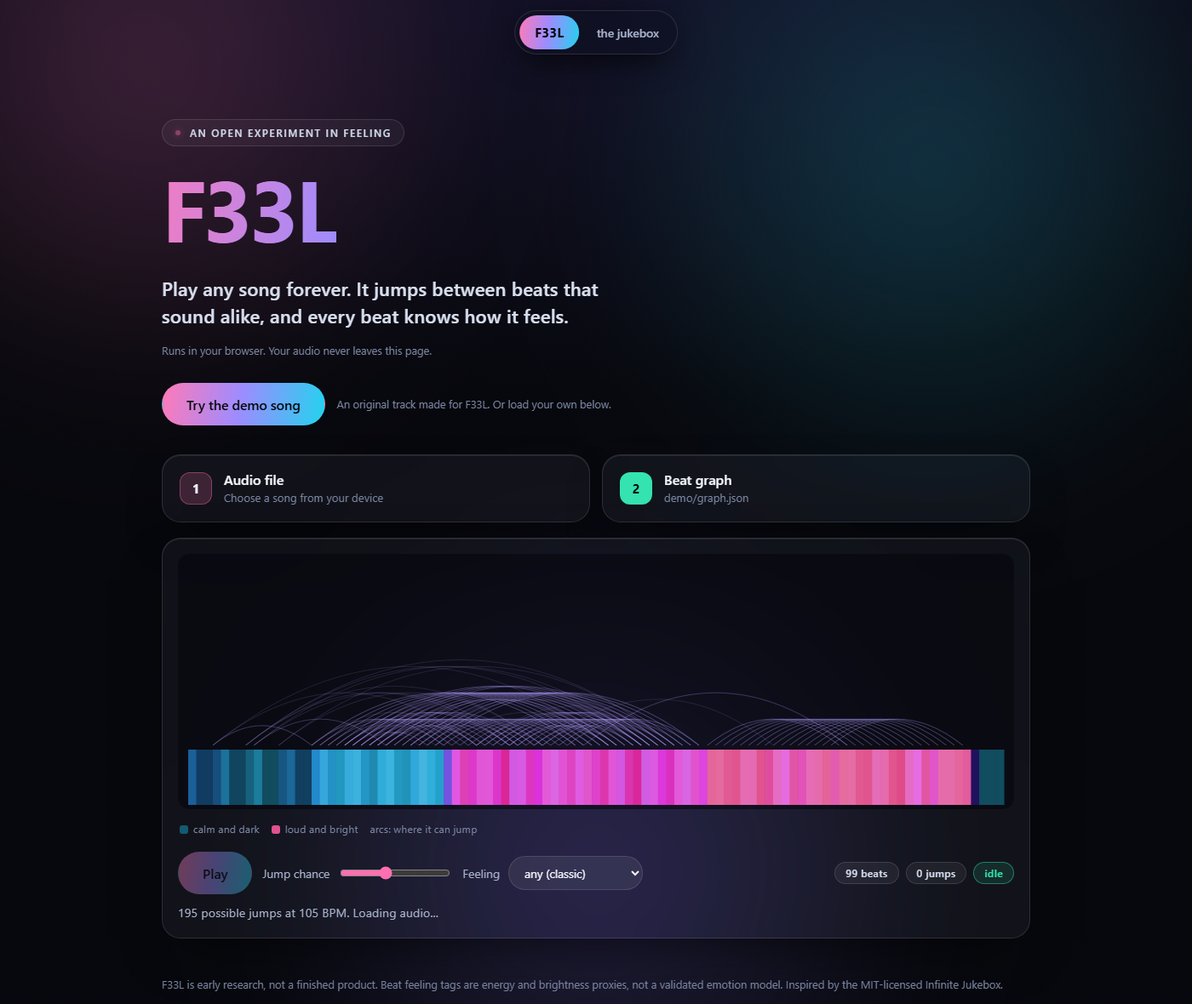
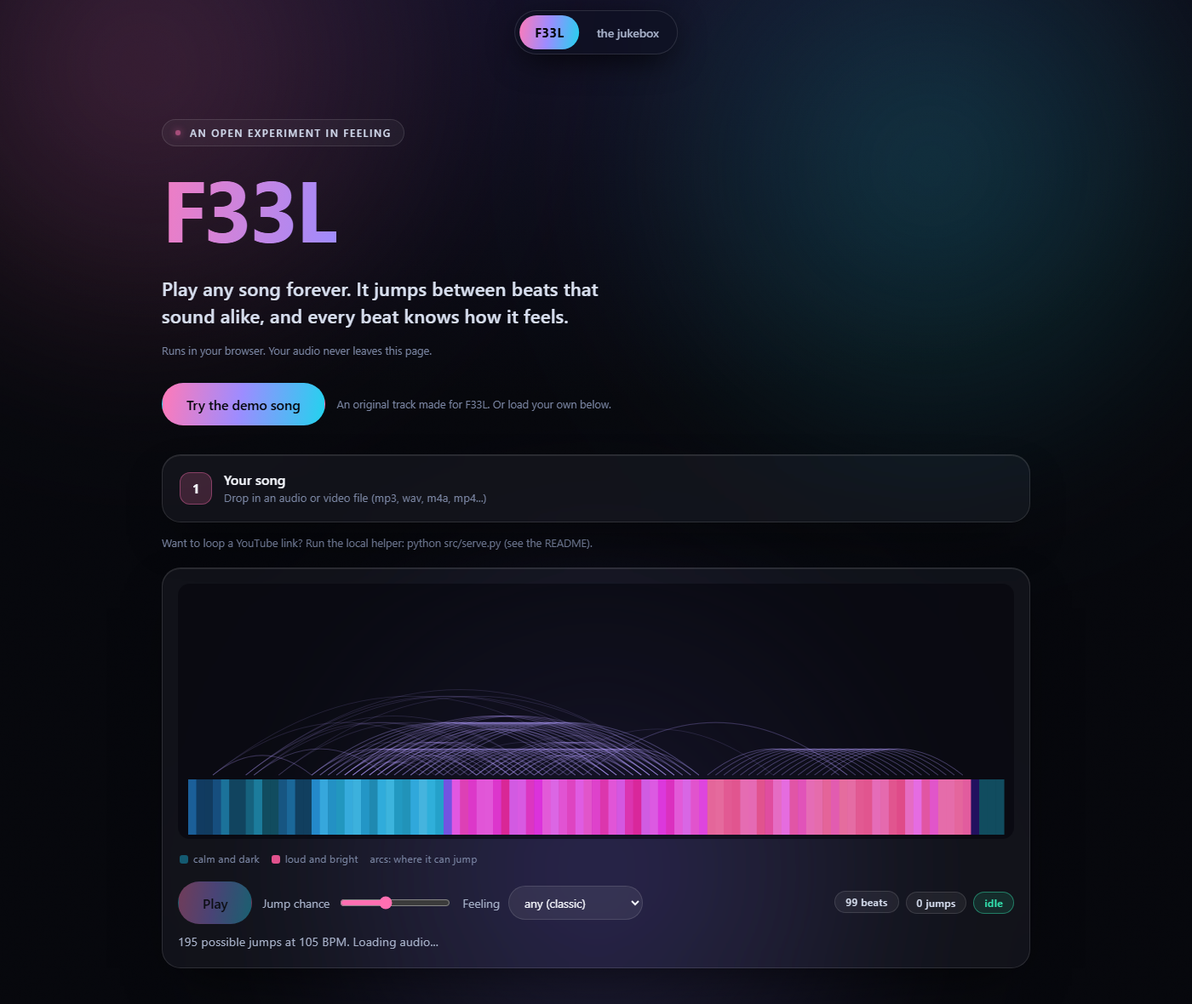
Drop any song in and loop it: in-browser analysis, optional local YouTube helper, tests

Changed region(s): [[0.1229, 0.6712, 0.86, 1.0], [0.1536, 0.4576, 0.4914, 0.5492], [0.5221, 0.4576, 0.6143, 0.5186]]

diff --git a/analyze.js b/analyze.js
@@ -1,0 +1,108 @@
+/* F33L analyze.js: builds the beat-similarity jump graph in the browser (or Node). A port of src/jukebox.py.
+   Input: mono Float32Array at 22050 Hz. Output: {bpm, beats, nodes[{i,t,arousal,brightness}], edges[{a,b,d}]}.
+   Ideas from the MIT-licensed Infinite/Eternal Jukebox; implementation is ours. No network, no audio leaves the page. */
+(function (root) {
+  const SR = 22050, N_FFT = 2048, HOP = 512, BINS = N_FFT / 2 + 1;
+
+  // in-place iterative radix-2 FFT
+  const REV = new Uint16Array(N_FFT), COS = new Float32Array(N_FFT / 2), SIN = new Float32Array(N_FFT / 2);
+  (function init() {
+    for (let i = 0; i < N_FFT; i++) { let r = 0, x = i; for (let b = 0; b < 11; b++) { r = (r << 1) | (x & 1); x >>= 1; } REV[i] = r; }
+    for (let i = 0; i < N_FFT / 2; i++) { COS[i] = Math.cos(2 * Math.PI * i / N_FFT); SIN[i] = -Math.sin(2 * Math.PI * i / N_FFT); }
+  })();
+  function fft(re, im) {
+    for (let i = 0; i < N_FFT; i++) { const j = REV[i]; if (j > i) { let t = re[i]; re[i] = re[j]; re[j] = t; t = im[i]; im[i] = im[j]; im[j] = t; } }
+    for (let size = 2; size <= N_FFT; size <<= 1) {
+      const half = size >> 1, step = N_FFT / size;
+      for (let s = 0; s < N_FFT; s += size) for (let k = 0, w = 0; k < half; k++, w += step) {
+        const a = s + k, b = a + half, tr = re[b] * COS[w] - im[b] * SIN[w], ti = re[b] * SIN[w] + im[b] * COS[w];
+        re[b] = re[a] - tr; im[b] = im[a] - ti; re[a] += tr; im[a] += ti;
+      }
+    }
+  }
+  const WIN = new Float32Array(N_FFT); for (let i = 0; i < N_FFT; i++) WIN[i] = 0.5 - 0.5 * Math.cos(2 * Math.PI * i / N_FFT);
+
+  const tick = () => new Promise(r => setTimeout(r, 0));
+  async function stftMag(y, onProgress) {
+    const frames = 1 + Math.floor((y.length - N_FFT) / HOP), mag = new Float32Array(frames * BINS);
+    const re = new Float32Array(N_FFT), im = new Float32Array(N_FFT);
+    for (let f = 0; f < frames; f++) {
+      const o = f * HOP;
+      for (let i = 0; i < N_FFT; i++) { re[i] = y[o + i] * WIN[i]; im[i] = 0; }
+      fft(re, im);
+      const m = f * BINS; for (let k = 0; k < BINS; k++) mag[m + k] = Math.hypot(re[k], im[k]);
+      if (onProgress && f % 400 === 0) { onProgress(f / frames); await tick(); }
+    }
+    return { mag, frames };
+  }
+
+  const percentile = (arr, p) => { const a = Float64Array.from(arr).sort(); const x = (a.length - 1) * p / 100, lo = Math.floor(x), hi = Math.ceil(x); return a[lo] + (a[hi] - a[lo]) * (x - lo); };
+
+  function tempo(flux, fps) {
+    const n = flux.length; let mean = 0; for (let i = 0; i < n; i++) mean += flux[i]; mean /= n;
+    const f = Float64Array.from(flux, v => v - mean), lo = Math.floor(fps * 60 / 180), hi = Math.floor(fps * 60 / 60);
+    let best = -Infinity, lag = lo;
+    for (let L = lo; L < hi; L++) { let s = 0; for (let i = 0; i + L < n; i++) s += f[i] * f[i + L]; if (s > best) { best = s; lag = L; } }
+    return 60 * fps / lag;
+  }
+
+  function beatGrid(flux, fps, bpm) {
+    const period = fps * 60 / bpm, n = flux.length; let bestPh = 0, bestS = -1;
+    for (let ph = 0; ph < period; ph += 1) { let s = 0; for (let p = ph; Math.round(p) < n; p += period) s += flux[Math.round(p)]; if (s > bestS) { bestS = s; bestPh = ph; } }
+    const out = []; for (let p = bestPh; Math.round(p) < n; p += period) out.push(Math.round(p) / fps); return out;
+  }
+
+  async function build(y, opts = {}) {
+    const onProgress = opts.onProgress || (() => {}), threshold = opts.threshold ?? 0.35, topk = opts.topk ?? 4, bar = 4, minGap = 8;
+    const fps = SR / HOP, { mag, frames } = await stftMag(y, p => onProgress(p * 0.8));
+    const freqs = new Float32Array(BINS); for (let k = 0; k < BINS; k++) freqs[k] = k * SR / N_FFT;
+    const db = new Float64Array(frames), cent = new Float64Array(frames), flux = new Float64Array(frames);
+    for (let f = 0; f < frames; f++) {
+      let e = 0, sm = 0, wsum = 0; const m = f * BINS;
+      for (let k = 0; k < BINS; k++) { const v = mag[m + k]; e += v * v; sm += v; wsum += v * freqs[k]; }
+      db[f] = 20 * Math.log10(Math.sqrt(e / BINS) + 1e-9); cent[f] = wsum / (sm + 1e-9);
+      if (f > 0) { let fl = 0; const p = m - BINS; for (let k = 0; k < BINS; k++) { const d = mag[m + k] - mag[p + k]; if (d > 0) fl += d; } flux[f] = fl; }
+    }
+    let bpm = opts.bpm || tempo(flux, fps); while (bpm < 70) bpm *= 2; while (bpm > 160) bpm /= 2;
+    const beats = beatGrid(flux, fps, bpm), nB = beats.length, dur = y.length / SR;
+    // chroma + 12 log bands per frame
+    const pc = new Int8Array(BINS).fill(-1); for (let k = 0; k < BINS; k++) { const f = freqs[k]; if (f >= 55 && f <= 2000) pc[k] = ((Math.round(12 * Math.log2(f / 440) + 69) % 12) + 12) % 12; }
+    const edgesHz = []; for (let i = 0; i < 13; i++) edgesHz.push(60 * Math.pow(9000 / 60, i / 12));
+    const bandOf = new Int8Array(BINS).fill(-1); for (let k = 0; k < BINS; k++) for (let b = 0; b < 12; b++) if (freqs[k] >= edgesHz[b] && freqs[k] < edgesHz[b + 1]) { bandOf[k] = b; break; }
+    const C = [], T = [], D = new Float64Array(nB), CE = new Float64Array(nB);
+    for (let i = 0; i < nB; i++) {
+      const a = Math.floor(beats[i] * fps), b = Math.max(Math.floor((i + 1 < nB ? beats[i + 1] : dur) * fps), a + 1), cnt = Math.min(b, frames) - a;
+      const ch = new Float64Array(12), tm = new Float64Array(12); let d = 0, c = 0;
+      for (let f = a; f < Math.min(b, frames); f++) {
+        const m = f * BINS, cf = new Float64Array(12), bf = new Float64Array(12);
+        for (let k = 0; k < BINS; k++) { const v = mag[m + k]; if (pc[k] >= 0) cf[pc[k]] += v; if (bandOf[k] >= 0) bf[bandOf[k]] += v; }
+        for (let j = 0; j < 12; j++) { ch[j] += cf[j]; tm[j] += Math.log1p(bf[j]); } d += db[f]; c += cent[f];
+      }
+      const n = Math.max(cnt, 1); let cs = 0, tmean = 0; for (let j = 0; j < 12; j++) { ch[j] /= n; tm[j] /= n; cs += ch[j]; tmean += tm[j]; }
+      tmean /= 12; for (let j = 0; j < 12; j++) { ch[j] /= (cs + 1e-9); tm[j] -= tmean; }
+      C.push(ch); T.push(tm); D[i] = d / n; CE[i] = c / n; onProgress(0.8 + 0.1 * i / nB);
+    }
+    const unit = v => { let s = 0; for (const x of v) s += x * x; s = Math.sqrt(s) + 1e-9; return v.map(x => x / s); };
+    const Tu = T.map(unit), Cu = C.map(unit);
+    let dm = 0; for (const x of D) dm += x; dm /= nB; let dv = 0; for (const x of D) dv += (x - dm) ** 2; const dsd = Math.sqrt(dv / nB) + 1e-9;
+    const Dn = Array.from(D, x => (x - dm) / dsd), dot = (u, v) => { let s = 0; for (let j = 0; j < 12; j++) s += u[j] * v[j]; return s; };
+    const dist = new Float32Array(nB * nB), all = [];
+    for (let i = 0; i < nB; i++) for (let j = 0; j < nB; j++) {
+      if (i === j) { dist[i * nB + j] = 9; continue; }
+      const v = 0.5 * (1 - dot(Tu[i], Tu[j])) + 0.3 * (1 - dot(Cu[i], Cu[j])) + 0.2 * Math.abs(Dn[i] - Dn[j]) / 4 + ((i % bar) !== (j % bar) ? 0.15 : 0);
+      dist[i * nB + j] = v; all.push(v);
+    }
+    const cut = Math.min(threshold, percentile(all, 3)), edges = [];
+    for (let i = 0; i < nB; i++) {
+      const order = Array.from({ length: nB }, (_, j) => j).sort((p, q) => dist[i * nB + p] - dist[i * nB + q]); let kept = 0;
+      for (const j of order) { const d = dist[i * nB + j]; if (d >= cut || kept >= topk) break; if (Math.abs(j - i) >= minGap && j !== i + 1) { edges.push({ a: i, b: j, d: +d.toFixed(3) }); kept++; } }
+    }
+    const d10 = percentile(D, 10), d90 = percentile(D, 90), c10 = percentile(CE, 10), c90 = percentile(CE, 90), clip = x => Math.max(0, Math.min(1, x));
+    const nodes = beats.map((t, i) => ({ i, t: +t.toFixed(3), arousal: +clip((D[i] - d10) / (d90 - d10 + 1e-9)).toFixed(2), brightness: +clip((CE[i] - c10) / (c90 - c10 + 1e-9)).toFixed(2) }));
+    onProgress(1);
+    return { bpm: +bpm.toFixed(1), beats: nB, nodes, edges };
+  }
+
+  const api = { SR, build, stftMag, tempo, beatGrid };
+  if (typeof module !== 'undefined' && module.exports) module.exports = api; else root.F33LAnalyze = api;
+})(typeof self !== 'undefined' ? self : this);

diff --git a/index.html b/index.html
@@ -51,7 +51,10 @@ h1{margin:20px 0 0;font:700 clamp(3rem,10vw,6.4rem)/1 var(--disp);letter-spacing
 .drop b{display:block;font:600 1rem var(--disp)}
 .drop small{display:block;color:var(--dim);font-size:.82rem;overflow-wrap:anywhere}
 .drop.ok .n{background:var(--g);color:#04130d;border-color:transparent}
-.drop input{position:absolute;inset:0;opacity:0;cursor:pointer;width:100%}
+.drop input[type=file]{position:absolute;inset:0;opacity:0;cursor:pointer;width:100%}
+.yt{display:flex;gap:8px;margin-top:8px}.yt input{flex:1;min-width:0;background:rgba(255,255,255,.07);border:1px solid var(--line);border-radius:999px;padding:10px 16px;color:var(--ink)}
+.btn.sm{min-height:42px;padding:0 20px;font-size:.9rem}
+[hidden]{display:none!important}
 
 .stage{margin-top:18px;padding:18px;overflow:hidden;box-shadow:inset 0 1px 0 rgba(255,255,255,.09),0 24px 60px -24px rgba(0,0,0,.7),0 0 calc(30px + var(--glow)*70px) -10px color-mix(in srgb,var(--acc) calc(var(--glow)*70%),transparent);transition:box-shadow .25s}
 canvas{display:block;width:100%;height:clamp(180px,34vw,300px);border-radius:14px;background:rgba(5,6,12,.55)}
@@ -89,9 +92,11 @@ footer{margin-top:44px;color:var(--dim);font-size:.8rem}
 
   <div class="cta"><button id="demo" class="btn pri">Try the demo song</button><span class="note" style="margin:0">An original track made for F33L. Or load your own below.</span></div>
   <div class="loaders">
-    <label class="glass drop" id="d1"><span class="n">1</span><span><b>Audio file</b><small id="n1">Choose a song from your device</small></span><input id="aud" type="file" accept="audio/*"></label>
-    <label class="glass drop" id="d2"><span class="n">2</span><span><b>Beat graph</b><small id="n2">graph.json made by jukebox.py</small></span><input id="grf" type="file" accept=".json"></label>
+    <label class="glass drop" id="d1"><span class="n">1</span><span><b>Your song</b><small id="n1">Drop in an audio or video file (mp3, wav, m4a, mp4...)</small></span><input id="aud" type="file" accept="audio/*,video/*"></label>
+    <div class="glass drop" id="d2" hidden><span class="n">2</span><span style="flex:1"><b>Or a YouTube link</b><small id="n2">Runs on your computer with the local helper</small>
+      <span class="yt"><input id="ytu" type="url" placeholder="https://www.youtube.com/watch?v=..." aria-label="YouTube link"><button id="ytb" class="btn pri sm">Loop it</button></span></span></div>
   </div>
+  <p class="note" id="local" hidden></p>
 
   <section class="glass stage" aria-label="Player">
     <canvas id="cv" width="2000" height="600" role="img" aria-label="Beat map: colored blocks are beats, arcs are possible jumps"></canvas>
@@ -106,21 +111,39 @@ footer{margin-top:44px;color:var(--dim);font-size:.8rem}
   </section>
   <footer>F33L is early research, not a finished product. Beat feeling tags are energy and brightness proxies, not a validated emotion model. Inspired by the MIT-licensed Infinite Jukebox.</footer>
 </main>
+<script src="analyze.js"></script>
 <script>
 let ctx,buf,g,cur=0,playing=false,nextT=0,timer,jumps=0;
 const $=id=>document.getElementById(id),cv=$('cv'),c2=cv.getContext('2d'),root=document.documentElement;
 function ready(){const ok=!!(buf&&g);$('go').disabled=!ok;if(g){$('c1').textContent=g.beats+' beats';}
   if(ok){$('st').textContent=`${g.edges.length} possible jumps at ${g.bpm} BPM. Press Play.`;}draw();}
-$('aud').onchange=async e=>{const f=e.target.files[0];if(!f)return;try{ctx=ctx||new AudioContext();
-  $('n1').textContent='Decoding...';buf=await ctx.decodeAudioData(await f.arrayBuffer());$('n1').textContent=f.name;$('d1').classList.add('ok');ready();}
-  catch(err){$('n1').textContent='Could not read that audio file';}};
-$('grf').onchange=async e=>{const f=e.target.files[0];if(!f)return;try{g=JSON.parse(await f.text());g.out={};
-  g.edges.forEach(x=>(g.out[x.a]=g.out[x.a]||[]).push(x.b));$('n2').textContent=f.name;$('d2').classList.add('ok');ready();}
-  catch(err){g=null;$('n2').textContent='That is not a valid graph.json';}};
+const setBusy=(t)=>{$('st').textContent=t;};
+async function toMono22k(ab){const oc=new OfflineAudioContext(1,Math.ceil(ab.duration*22050),22050),sr=oc.createBufferSource();sr.buffer=ab;sr.connect(oc.destination);sr.start();return (await oc.startRendering()).getChannelData(0);}
+async function useAudio(arrayBuffer,label){
+  try{ctx=ctx||new AudioContext();setBusy('Decoding...');g=null;buf=await ctx.decodeAudioData(arrayBuffer);}
+  catch(e){$('n1').textContent='Could not read that file. Try an mp3, wav or m4a.';setBusy('');return;}
+  $('n1').textContent=label;$('d1').classList.add('ok');
+  try{const y=await toMono22k(buf);setBusy('Listening to the song...');
+    g=await F33LAnalyze.build(y,{onProgress:p=>setBusy('Listening to the song... '+Math.round(p*100)+'%')});
+    g.out={};g.edges.forEach(x=>(g.out[x.a]=g.out[x.a]||[]).push(x.b));ready();}
+  catch(e){setBusy('Something went wrong analyzing that song.');}}
+$('aud').onchange=async e=>{const f=e.target.files[0];if(f)await useAudio(await f.arrayBuffer(),f.name);};
+async function ytLoop(){
+  const u=$('ytu').value.trim();if(!u)return;$('ytb').disabled=true;setBusy('Getting the audio on your computer... this can take a minute');
+  try{const r=await fetch('/api/yt?url='+encodeURIComponent(u),{headers:{'X-F33L':'1'}});
+    if(!r.ok){setBusy((await r.json()).error||'That did not work.');return;}
+    const title=decodeURIComponent(r.headers.get('X-Title')||'YouTube audio');await useAudio(await r.arrayBuffer(),title);}
+  catch(e){setBusy('Could not reach the local helper.');}finally{$('ytb').disabled=false;}}
+$('ytb').onclick=ytLoop;$('ytu').addEventListener('keydown',e=>{if(e.key==='Enter')ytLoop();});
+(async()=>{const note=$('local');
+  try{const h=await (await fetch('/api/health',{headers:{'X-F33L':'1'}})).json();
+    if(h&&h.ok){$('d2').hidden=false;if(!h.youtube){$('n2').textContent='Install yt-dlp to turn this on: winget install yt-dlp';$('ytu').disabled=true;$('ytb').disabled=true;}
+      note.hidden=false;note.textContent='For your own listening. Please respect the service terms and the artist.';}}
+  catch(e){note.hidden=false;note.textContent='Want to loop a YouTube link? Run the local helper: python src/serve.py (see the README).';}})();
 async function loadDemo(){
   $('st').textContent='Loading the demo...';
   try{g=await fetch('demo/graph.json').then(r=>r.json());g.out={};g.edges.forEach(x=>(g.out[x.a]=g.out[x.a]||[]).push(x.b));
-    $('n2').textContent='demo/graph.json';$('d2').classList.add('ok');$('c1').textContent=g.beats+' beats';$('st').textContent=g.edges.length+' possible jumps at '+g.bpm+' BPM. Loading audio...';draw();}
+    $('c1').textContent=g.beats+' beats';$('st').textContent=g.edges.length+' possible jumps at '+g.bpm+' BPM. Loading audio...';draw();}
   catch(err){$('st').textContent='The demo needs the website or a local server, not a file.';return;}
   try{ctx=ctx||new AudioContext();buf=await ctx.decodeAudioData(await fetch('demo/demo.mp3').then(r=>r.arrayBuffer()));
     $('n1').textContent='demo.mp3 (original F33L demo)';$('d1').classList.add('ok');ready();}

diff --git a/tests/analyze.test.js b/tests/analyze.test.js
@@ -1,0 +1,21 @@
+// node --test tests/   (synthetic audio with known answers, same idea as test_listen.py)
+const test = require('node:test'), assert = require('node:assert'), A = require('../analyze.js');
+const SR = A.SR;
+const tone = (f, d) => { const n = Math.floor(SR * d), y = new Float32Array(n); for (let i = 0; i < n; i++) for (let h = 1; h <= 3; h++) y[i] += Math.sin(2 * Math.PI * f * h * i / SR) / h * 0.3; return y; };
+const cat = parts => { const y = new Float32Array(parts.reduce((s, p) => s + p.length, 0)); let o = 0; for (const p of parts) { y.set(p, o); o += p.length; } return y; };
+
+test('repeating 4-beat bar: jumps only between same bar positions, never neighbours', async () => {
+  const bar = [220, 330, 440, 660].map(f => tone(f, 0.5)), y = cat(Array(16).fill(bar).flat());
+  const g = await A.build(y, { bpm: 120 });
+  assert.ok(g.edges.length > 20, 'expected jump edges, got ' + g.edges.length);
+  for (const e of g.edges) { assert.ok((e.a - e.b) % 4 === 0); assert.ok(Math.abs(e.a - e.b) >= 8); }
+  for (const n of g.nodes) assert.ok(n.arousal >= 0 && n.arousal <= 1 && n.brightness >= 0 && n.brightness <= 1);
+});
+
+test('click track at 120 BPM is detected as about 120', async () => {
+  const y = new Float32Array(SR * 20); let seed = 1; const rnd = () => (seed = (seed * 16807) % 2147483647) / 2147483647 - 0.5;
+  for (let b = 0; b < 40; b++) { const i = Math.floor(b * 0.5 * SR); for (let k = 0; k < 400; k++) y[i + k] += rnd() * 2; }
+  const { mag, frames } = await A.stftMag(y), fps = SR / 512, flux = new Float64Array(frames);
+  for (let f = 1; f < frames; f++) { let s = 0; for (let k = 0; k < 1025; k++) s += Math.max(0, mag[f * 1025 + k] - mag[(f - 1) * 1025 + k]); flux[f] = s; }
+  assert.ok(Math.abs(A.tempo(flux, fps) - 120) < 4);
+});

diff --git a/src/serve.py b/src/serve.py
@@ -1,0 +1,105 @@
+"""F33L local helper: serves the page on your own machine and, if yt-dlp is installed, fetches the audio of a YouTube link
+for personal use so the jukebox can loop it. Runs only on 127.0.0.1. The public website never uses this.
+
+Usage:  python src/serve.py [--port 8765] [--ffmpeg path\\to\\ffmpeg.exe]
+Then open http://127.0.0.1:8765/ and paste a link.
+Needs yt-dlp for links:  winget install yt-dlp   (or: pip install yt-dlp). Files you drop in need nothing extra.
+Please respect the terms of the service and the rights of the artist; this is for your own listening, not redistribution.
+"""
+import argparse, glob, json, os, shutil, subprocess, sys, tempfile
+from http.server import SimpleHTTPRequestHandler, ThreadingHTTPServer
+from urllib.parse import urlparse, parse_qs, quote
+
+ROOT = os.path.abspath(os.path.join(os.path.dirname(__file__), ".."))
+YT_HOSTS = {"youtube.com", "www.youtube.com", "m.youtube.com", "music.youtube.com", "youtu.be"}
+MAX_SECONDS = 15 * 60
+FFMPEG = os.environ.get("F33L_FFMPEG") or "ffmpeg"
+
+
+def validate_url(u):
+    """Return a safe https YouTube URL or None. No shell is ever used, but we still refuse anything odd."""
+    if not isinstance(u, str) or len(u) > 300 or any(c.isspace() for c in u) or u.startswith("-"):
+        return None
+    p = urlparse(u)
+    if p.scheme != "https" or (p.hostname or "").lower() not in YT_HOSTS or p.username or p.password:
+        return None
+    return u
+
+
+def ytdlp_cmd():
+    exe = shutil.which("yt-dlp")
+    if exe:
+        return [exe]
+    try:
+        import yt_dlp  # noqa: F401
+        return [sys.executable, "-m", "yt_dlp"]
+    except ImportError:
+        return None
+
+
+def host_ok(host, port):
+    return host in (f"127.0.0.1:{port}", f"localhost:{port}")
+
+
+class Handler(SimpleHTTPRequestHandler):
+    def __init__(self, *a, **k):
+        super().__init__(*a, directory=ROOT, **k)
+
+    def log_message(self, *a):
+        pass
+
+    def _json(self, code, obj):
+        b = json.dumps(obj).encode()
+        self.send_response(code); self.send_header("Content-Type", "application/json")
+        self.send_header("Content-Length", str(len(b))); self.end_headers(); self.wfile.write(b)
+
+    def do_GET(self):
+        if not host_ok(self.headers.get("Host", ""), self.server.server_port):
+            return self._json(403, {"error": "bad host"})
+        u = urlparse(self.path)
+        if u.path == "/api/health":
+            return self._json(200, {"ok": True, "youtube": ytdlp_cmd() is not None})
+        if u.path == "/api/yt":
+            if self.headers.get("X-F33L") != "1":      # blocks other websites from calling this
+                return self._json(403, {"error": "missing header"})
+            url = validate_url((parse_qs(u.query).get("url") or [""])[0])
+            if not url:
+                return self._json(400, {"error": "Paste a normal https YouTube link."})
+            cmd = ytdlp_cmd()
+            if not cmd:
+                return self._json(501, {"error": "yt-dlp is not installed. Run: winget install yt-dlp"})
+            tmp = tempfile.mkdtemp(prefix="f33l_")
+            try:
+                run = cmd + ["--no-playlist", "--no-warnings", "-q", "-x", "--audio-format", "mp3", "--audio-quality", "5",
+                             "--match-filter", f"duration<={MAX_SECONDS}", "--ffmpeg-location", FFMPEG,
+                             "-o", os.path.join(tmp, "a.%(ext)s"), "--print", "title", "--", url]
+                r = subprocess.run(run, capture_output=True, text=True, timeout=240)
+                files = glob.glob(os.path.join(tmp, "a.mp3"))
+                if r.returncode != 0 or not files:
+                    return self._json(422, {"error": "Could not get audio (private, too long over 15 min, or blocked)."})
+                data = open(files[0], "rb").read()
+                self.send_response(200); self.send_header("Content-Type", "audio/mpeg")
+                self.send_header("Content-Length", str(len(data)))
+                self.send_header("X-Title", quote((r.stdout.strip().splitlines() or ["video"])[0][:120]))
+                self.end_headers(); self.wfile.write(data)
+            except subprocess.TimeoutExpired:
+                self._json(504, {"error": "That took too long."})
+            finally:
+                shutil.rmtree(tmp, ignore_errors=True)
+            return
+        return super().do_GET()
+
+
+def main():
+    global FFMPEG
+    ap = argparse.ArgumentParser(); ap.add_argument("--port", type=int, default=8765); ap.add_argument("--ffmpeg")
+    a = ap.parse_args()
+    if a.ffmpeg: FFMPEG = a.ffmpeg
+    srv = ThreadingHTTPServer(("127.0.0.1", a.port), Handler)
+    print(f"F33L on http://127.0.0.1:{a.port}/   (YouTube links: {'ready' if ytdlp_cmd() else 'install yt-dlp to enable'})")
+    try: srv.serve_forever()
+    except KeyboardInterrupt: pass
+
+
+if __name__ == "__main__":
+    main()

diff --git a/tests/test_serve.py b/tests/test_serve.py
@@ -1,0 +1,17 @@
+import os, sys, unittest
+sys.path.insert(0, os.path.join(os.path.dirname(__file__), "..", "src"))
+import serve as S
+
+class Validate(unittest.TestCase):
+    def test_accepts_normal_links(self):
+        for u in ("https://www.youtube.com/watch?v=abc123", "https://youtu.be/abc123", "https://music.youtube.com/watch?v=x"):
+            self.assertEqual(S.validate_url(u), u)
+    def test_rejects_everything_else(self):
+        bad = ("http://youtube.com/watch?v=a", "https://evil.com/watch?v=a", "https://youtube.com.evil.com/x", "-o /etc/passwd",
+               "https://user:pw@youtube.com/x", "https://youtube.com/x y", "file:///c:/x", "", None, "https://youtube.com/" + "a" * 400)
+        for u in bad: self.assertIsNone(S.validate_url(u), u)
+    def test_host_check_blocks_rebinding(self):
+        self.assertTrue(S.host_ok("127.0.0.1:8765", 8765)); self.assertTrue(S.host_ok("localhost:8765", 8765))
+        self.assertFalse(S.host_ok("evil.com:8765", 8765)); self.assertFalse(S.host_ok("127.0.0.1:9999", 8765))
+
+if __name__ == "__main__": unittest.main()

diff --git a/README.md b/README.md
@@ -16,7 +16,9 @@ you can steer a song by feeling. Everything runs in your browser. Your audio nev
 
 | Path | What it is |
 |---|---|
-| `index.html` | the jukebox player: beat map, jump arcs, "stay in the feeling" modes |
+| `index.html` | the jukebox player: drop a song, beat map, jump arcs, "stay in the feeling" modes |
+| `analyze.js` | the in-browser listener: builds the beat graph from any audio (port of `jukebox.py`) |
+| `src/serve.py` | optional local helper for YouTube links (127.0.0.1 only) |
 | `src/listen.py` | a moment-by-moment listening transcript for any song |
 | `src/jukebox.py` | builds the beat-similarity jump graph, locally |
 | `src/align.py` | lines up lyric timings with the energy curve |
@@ -25,9 +27,16 @@ you can steer a song by feeling. Everything runs in your browser. Your audio nev
 | `docs/` | the roadmap and screenshots |
 
 ## Use it
-1. Open the live demo and press **Try the demo song**, then **Play**.
-2. For your own song, run `python src/jukebox.py song.mp3 --ffmpeg ffmpeg --out graph.json` (needs Python, numpy and ffmpeg), then load the audio and `graph.json` on the page.
-3. Try **Feeling**: stay in the energy, build up, or wind down.
+**On the website:** press **Try the demo song**, or drop in your own audio or video file (mp3, wav, m4a, mp4...). F33L listens to the song right in your browser (a few seconds), builds the beat map, and loops it forever. Nothing is uploaded.
+
+**Loop a YouTube link (local only):** the public site cannot fetch videos, so this runs on your own computer.
+1. Install Python, ffmpeg and yt-dlp (`winget install yt-dlp`, or `pip install yt-dlp`).
+2. Run `python src/serve.py` and open http://127.0.0.1:8765/ (the helper prints the address; use `--port` if that one is taken).
+3. Paste a link and press **Loop it**. The audio is fetched to a temporary file on your machine, analyzed in the page, then deleted.
+
+For your own listening only. Respect the service's terms and the artist's rights; do not redistribute. The helper listens on 127.0.0.1 only and accepts only https YouTube links.
+
+**Power users:** `python src/jukebox.py song.mp3 --ffmpeg ffmpeg` builds the same graph in Python (it matches the browser version edge for edge).
 
 ## The idea
 1. **Measure the sound.** Turn audio into interpretable features: tempo, meter, key and mode, chord motion, melodic contour, register, dynamics, spectral brightness, roughness, texture, silence.
@@ -64,7 +73,7 @@ Early, working prototypes (all local; audio never leaves your machine; needs ffm
 - `src/listen.py`: a moment-by-moment "listening transcript" (loudness, brightness, rhythmic density, tempo, key guess per section).
 - `src/align.py`: lines up lyric timings (faster-whisper) with the energy curve. Outputs stay in the git-ignored `outputs/`; do not publish lyrics of copyrighted songs.
 - `src/jukebox.py` + `index.html`: a locally computed beat-similarity jump graph and a browser player that plays a song forever by jumping between beats that sound alike, with per-beat energy/brightness tags and a "stay in the feeling" mode. Inspired by the MIT-licensed Infinite/Eternal Jukebox (no Spotify API needed here).
-- `tests/`: synthetic-audio tests (known key, known tempo, known repeating structure). Run: `python -m unittest tests.test_listen`.
+- `tests/`: synthetic-audio tests (known key, known tempo, known repeating structure). Run: `python -m unittest discover tests` and `node --test tests/analyze.test.js`.
 
 Known limits: key detection is unreliable on rap/vocal-heavy music; tempo can be half/double; the per-beat "feeling" tags are simple energy/brightness proxies, not a validated emotion model; the browser player has not yet had a listening test on real tracks.
 
